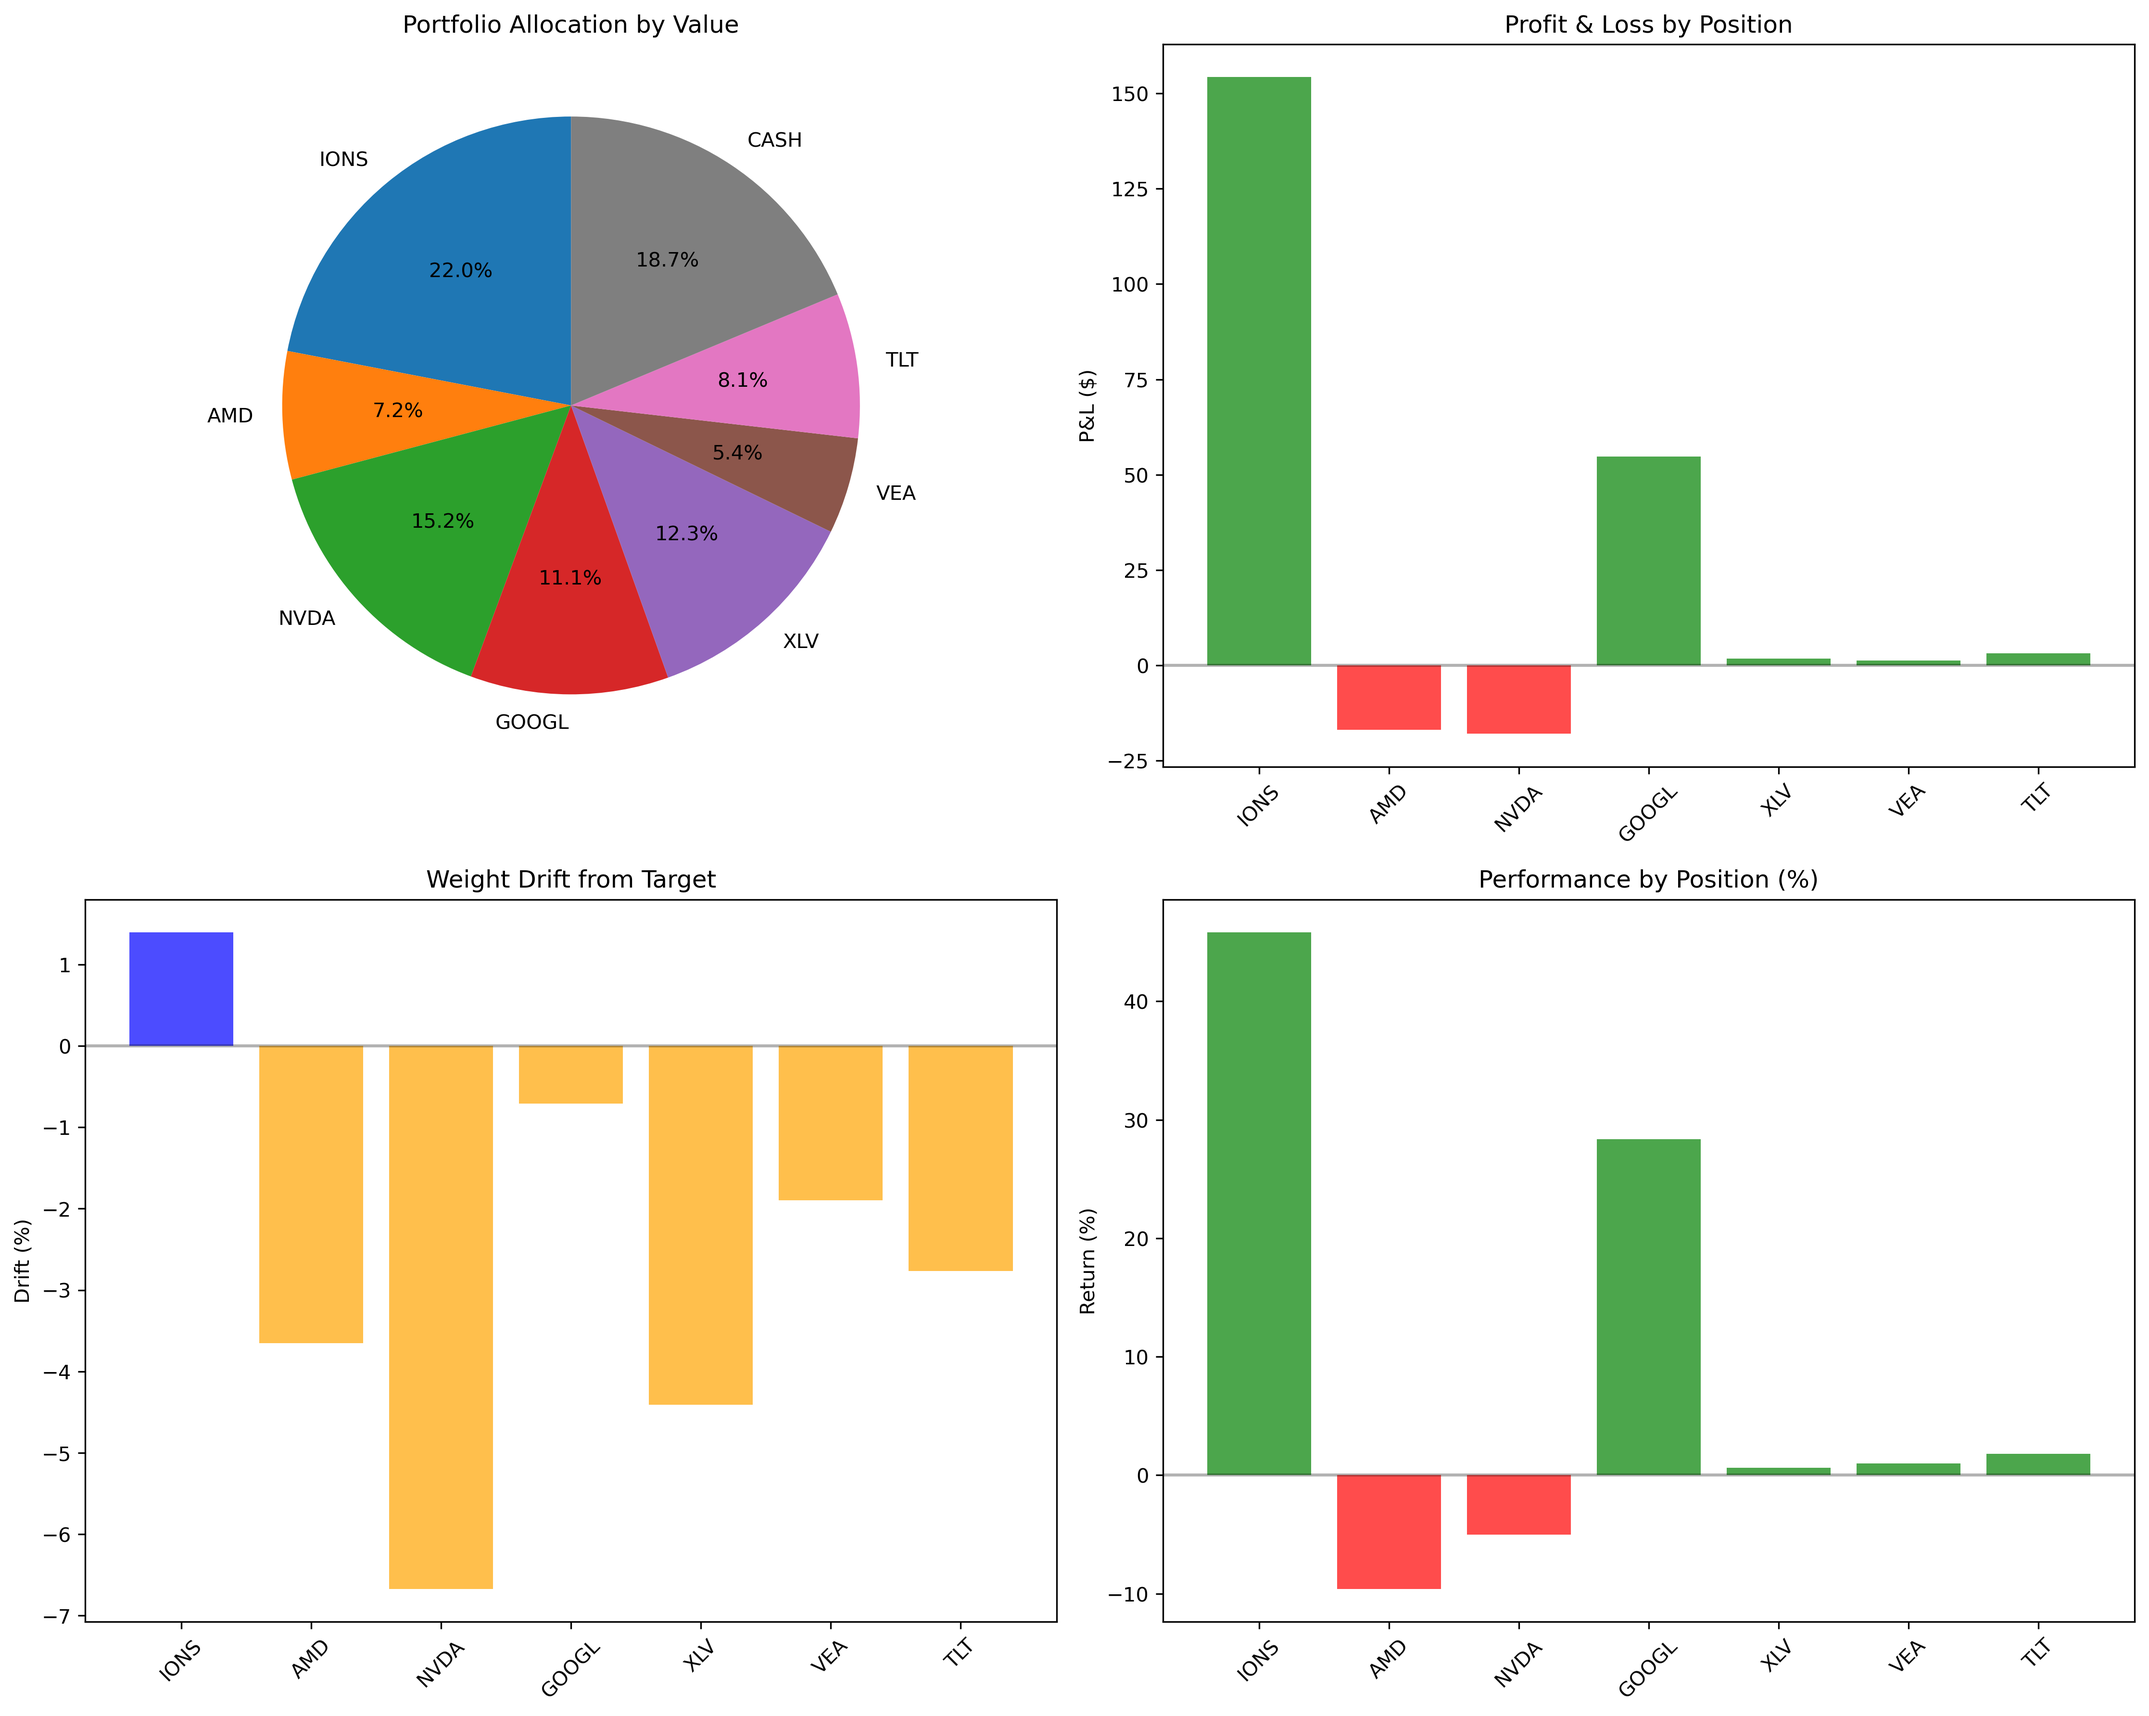
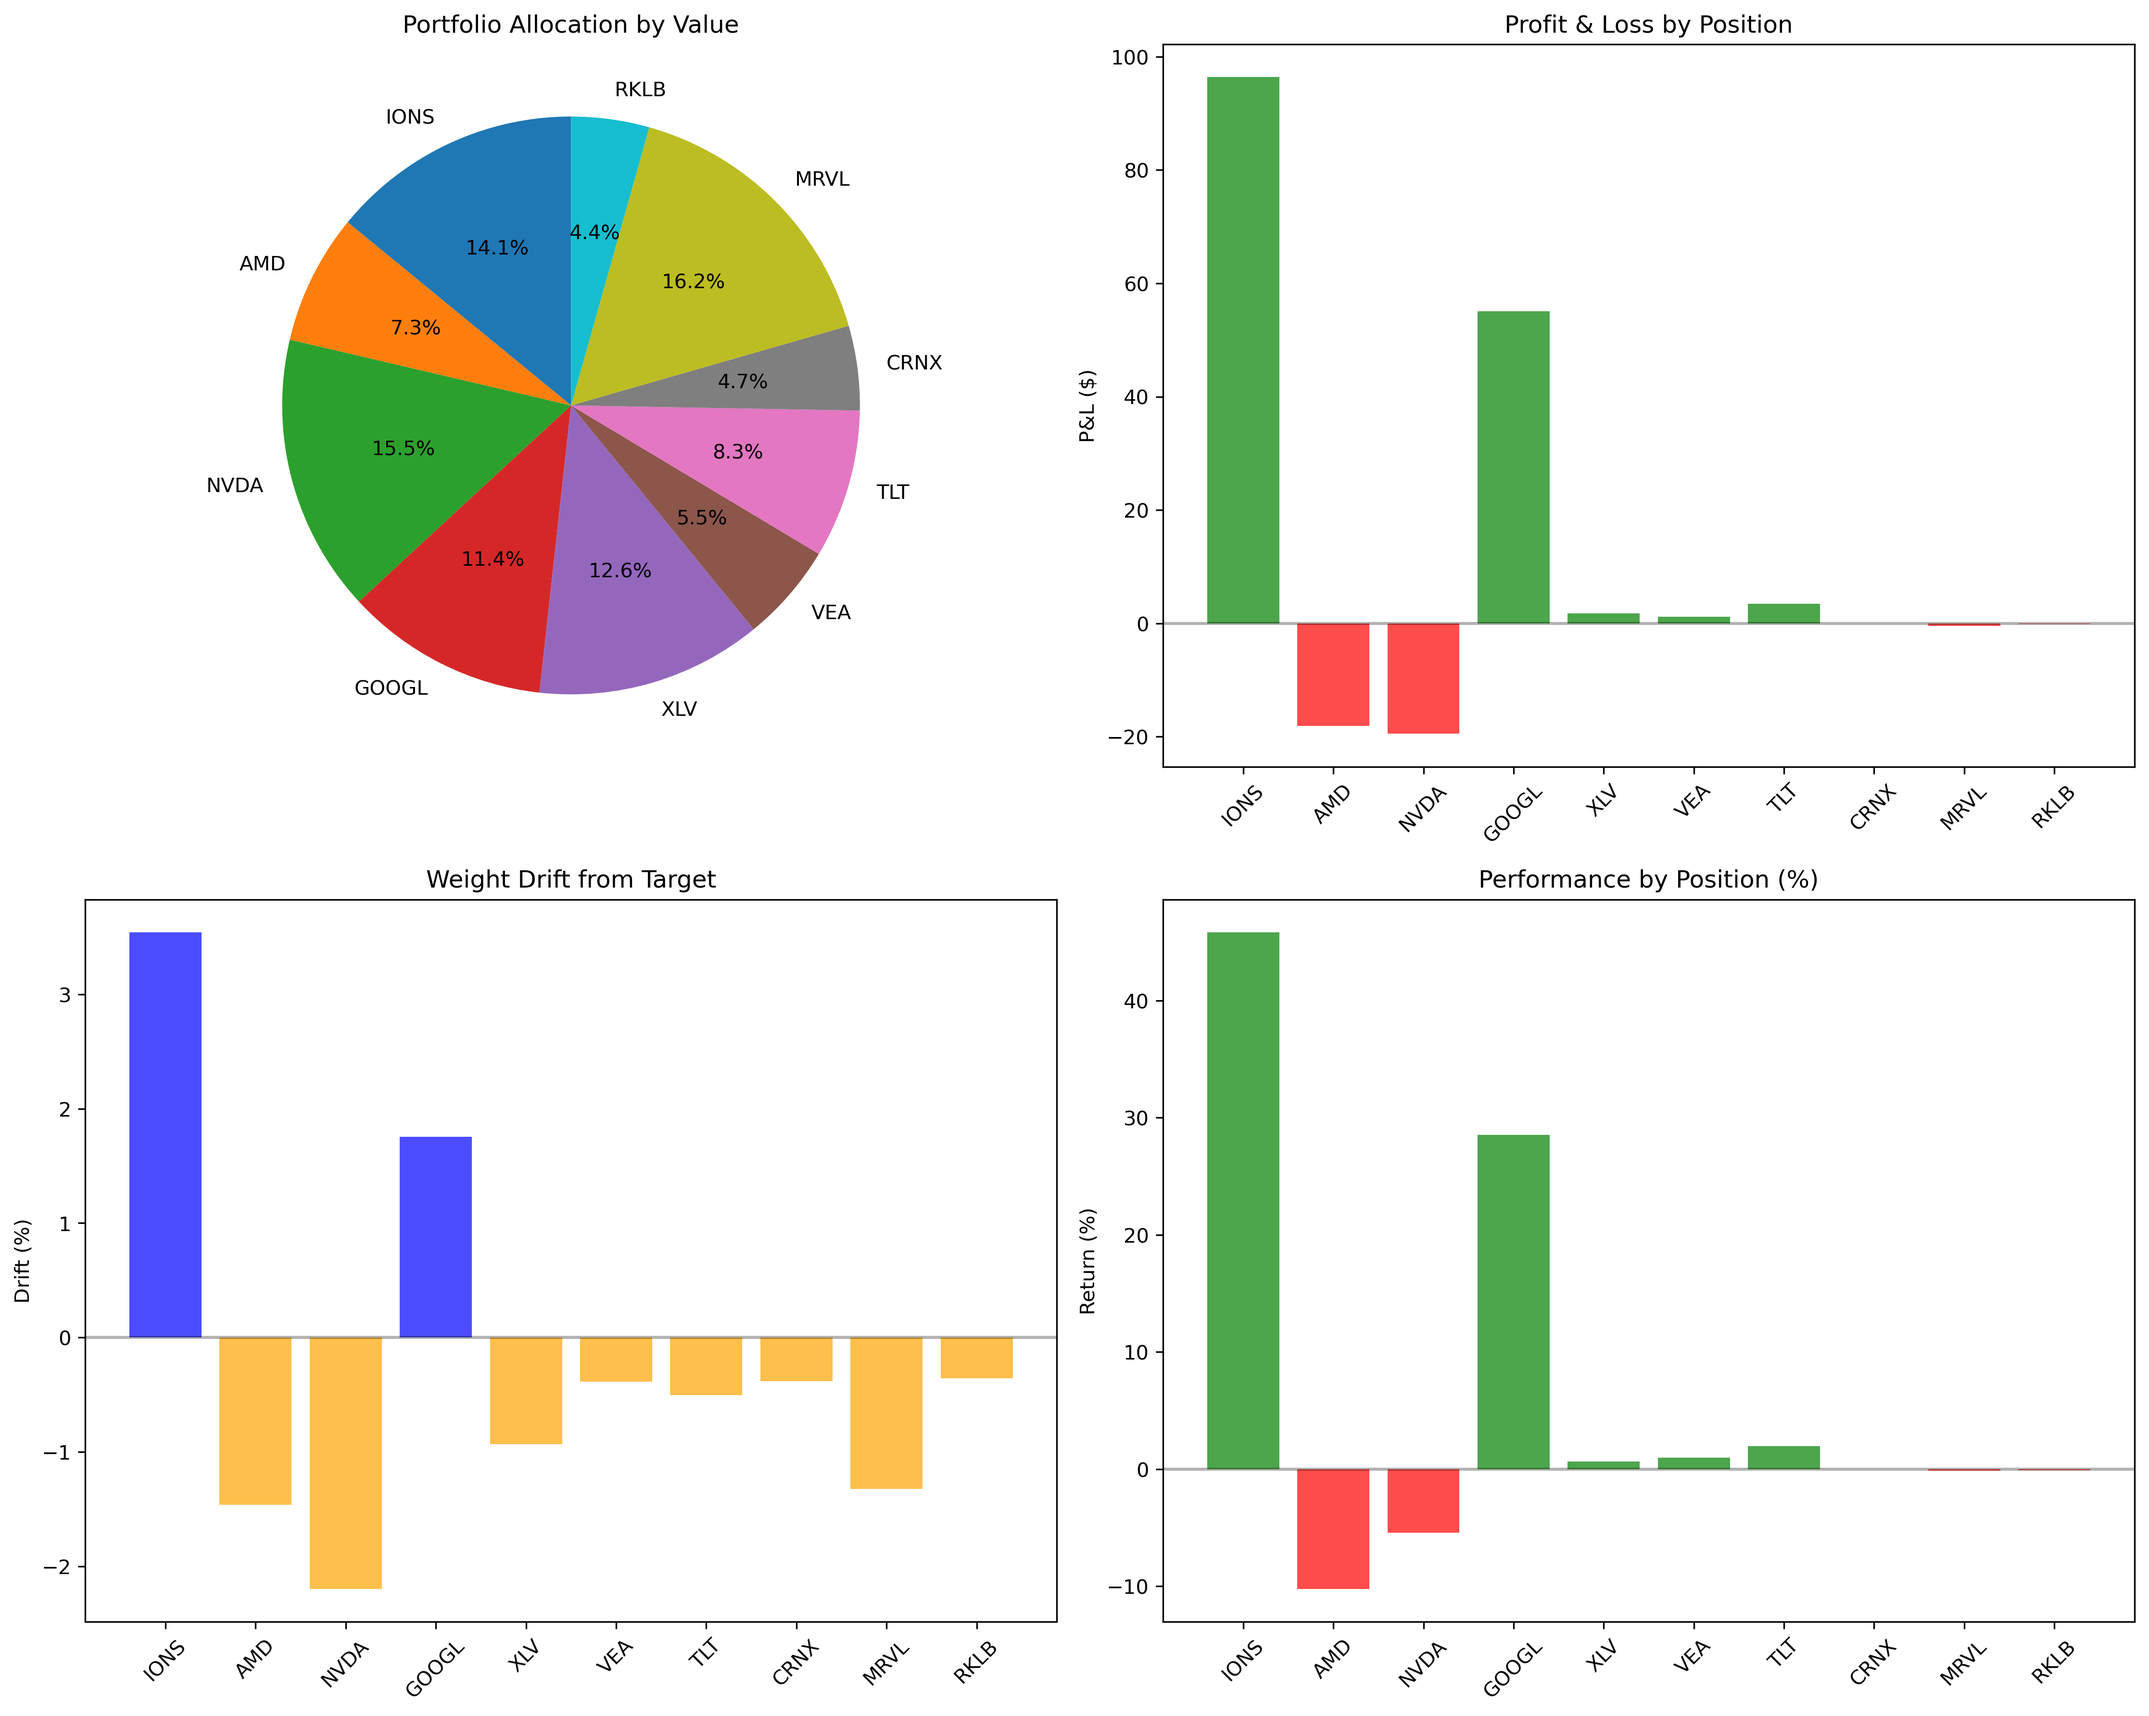
New Portfolio

diff --git a/Trading/LLM Managed Portfolio/daily_portfolio_analysis.md b/Trading/LLM Managed Portfolio/daily_portfolio_analysis.md
@@ -1,72 +1,88 @@
 # Daily Portfolio Analysis - 2025-09-17
 
 ## Executive Summary
-- **Total Portfolio Value**: $2,233.49
-- **Total P&L**: $+233.49 (+11.67%)
-- **Cash Position**: $418.03
-- **Active Positions**: 7
+- **Total Portfolio Value**: $2,230.87
+- **Total P&L**: $+230.87 (+11.54%)
+- **Cash Position**: $50.22
+- **Active Positions**: 10
 
 ## Benchmark Comparison
-- **Portfolio Return**: +11.7%
-- **SPY Benchmark**: +3.4%
-- **IWM Benchmark**: +7.5%
+- **SPY_daily**: -0.14%
+- **IWM_daily**: +1.11%
 
 ## Position Analysis
 ### IONS
-- Shares: 8
-- Current Price: $61.36
-- P&L: $+154.28 (+45.84%)
-- Portfolio Weight: 22.0%
-- Weight Drift: +1.4%
+- Shares: 5
+- Current Price: $61.35
+- P&L: $+96.40 (+45.82%)
+- Portfolio Weight: 13.8%
+- Weight Drift: +3.5%
 
 ### AMD
 - Shares: 1
-- Current Price: $159.81
-- P&L: $-16.97 (-9.60%)
-- Portfolio Weight: 7.2%
-- Weight Drift: -3.7%
+- Current Price: $158.70
+- P&L: $-18.08 (-10.23%)
+- Portfolio Weight: 7.1%
+- Weight Drift: -1.5%
 
 ### NVDA
 - Shares: 2
-- Current Price: $170.09
-- P&L: $-17.97 (-5.02%)
+- Current Price: $169.33
+- P&L: $-19.50 (-5.44%)
 - Portfolio Weight: 15.2%
-- Weight Drift: -6.7%
+- Weight Drift: -2.2%
 
 ### GOOGL
 - Shares: 1
-- Current Price: $247.75
-- P&L: $+54.75 (+28.37%)
+- Current Price: $248.09
+- P&L: $+55.09 (+28.54%)
 - Portfolio Weight: 11.1%
-- Weight Drift: -0.7%
+- Weight Drift: +1.8%
 
 ### XLV
 - Shares: 2
-- Current Price: $137.81
-- P&L: $+1.72 (+0.63%)
-- Portfolio Weight: 12.3%
-- Weight Drift: -4.4%
+- Current Price: $137.83
+- P&L: $+1.75 (+0.64%)
+- Portfolio Weight: 12.4%
+- Weight Drift: -0.9%
 
 ### VEA
 - Shares: 2
-- Current Price: $60.15
-- P&L: $+1.19 (+1.00%)
+- Current Price: $60.14
+- P&L: $+1.18 (+0.99%)
 - Portfolio Weight: 5.4%
-- Weight Drift: -1.9%
+- Weight Drift: -0.4%
 
 ### TLT
 - Shares: 2
-- Current Price: $90.45
-- P&L: $+3.19 (+1.80%)
+- Current Price: $90.58
+- P&L: $+3.44 (+1.94%)
 - Portfolio Weight: 8.1%
-- Weight Drift: -2.8%
+- Weight Drift: -0.5%
 
-## Alerts & Recommendations
-- **MEDIUM**: NVDA underweight by 6.7% - consider rebalancing
-- **MEDIUM**: High cash level (20.4%) - consider deploying capital
+### CRNX
+- Shares: 3
+- Current Price: $34.38
+- P&L: $+0.00 (+0.00%)
+- Portfolio Weight: 4.6%
+- Weight Drift: -0.4%
+
+### MRVL
+- Shares: 5
+- Current Price: $70.59
+- P&L: $-0.42 (-0.12%)
+- Portfolio Weight: 15.8%
+- Weight Drift: -1.3%
+
+### RKLB
+- Shares: 2
+- Current Price: $47.61
+- P&L: $-0.08 (-0.08%)
+- Portfolio Weight: 4.3%
+- Weight Drift: -0.4%
 
 ## Recent Performance Trend
 *Historical performance data will be populated as data accumulates*
 
 ---
-*Generated: 2025-09-17 11:46:17*
+*Generated: 2025-09-17 12:05:02*
